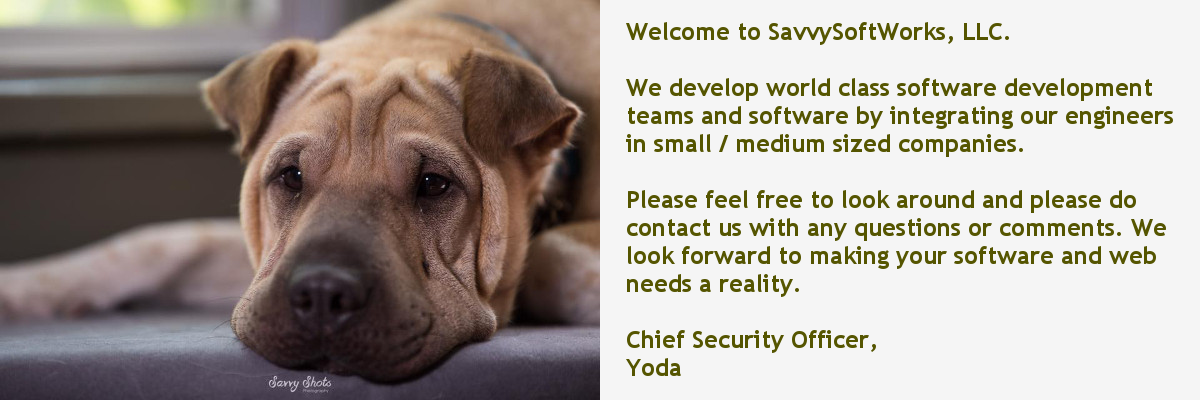
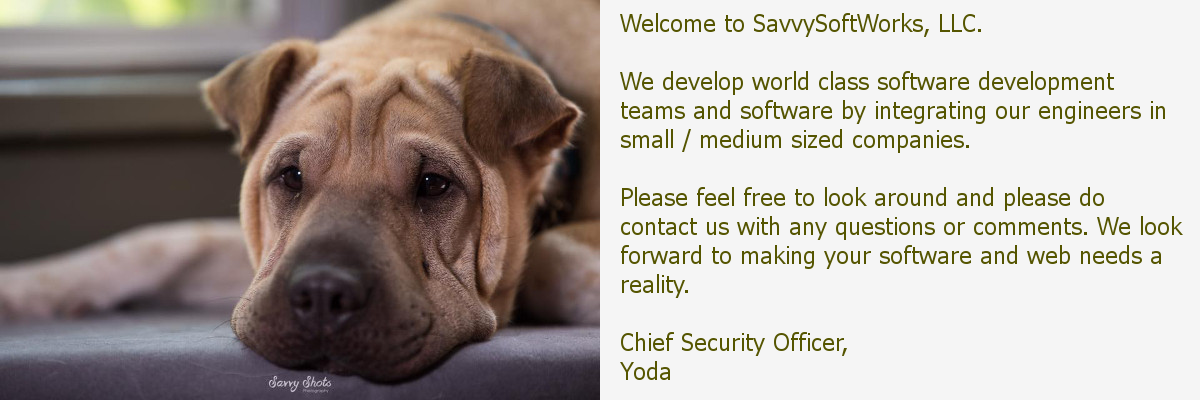
Update Yoda, and Current CLient font

diff --git a/source/stylesheets/styles.css.scss b/source/stylesheets/styles.css.scss
@@ -2,6 +2,7 @@
 
 @import url(https://fonts.googleapis.com/css?family=Audiowide);
 @import url(https://fonts.googleapis.com/css?family=Oxygen:400,700);
+@import 'https://fonts.googleapis.com/css?family=Ubuntu';
 
 // Mixins
 // @import "components/prefixer";
@@ -86,6 +87,12 @@
   &.md-48{font-size: 48px;}
 }
 
+$body: #F5F5F5;
+$maintext: #000078;
+$footer: #FFFFFF;
+$a: #000078;
+$ahover: #00AAAA;
+
 .has-shadow {
   box-shadow: 0px 9px 7px 0px rgba(50, 50, 50, 0.6);
   margin-bottom: 0;
@@ -127,16 +134,16 @@
     margin: 0;
     color: #FCFEFC;
   }
-  p {
-    color: #F5F5F5
+  h6 {
+    padding-left: 1em;
   }
+  p {
+    color: darken($body, 10%);
+    font-weight: 200;
+    font-family: Oxygen, Ubuntu, Helvetica, sans-serif;
+    }
 }
 
-$body: #F5F5F5;
-$maintext: #000078;
-$footer: #FFFFFF;
-$a: #000078;
-$ahover: #00AAAA;
 
 img{
   margin-top: 4px;
